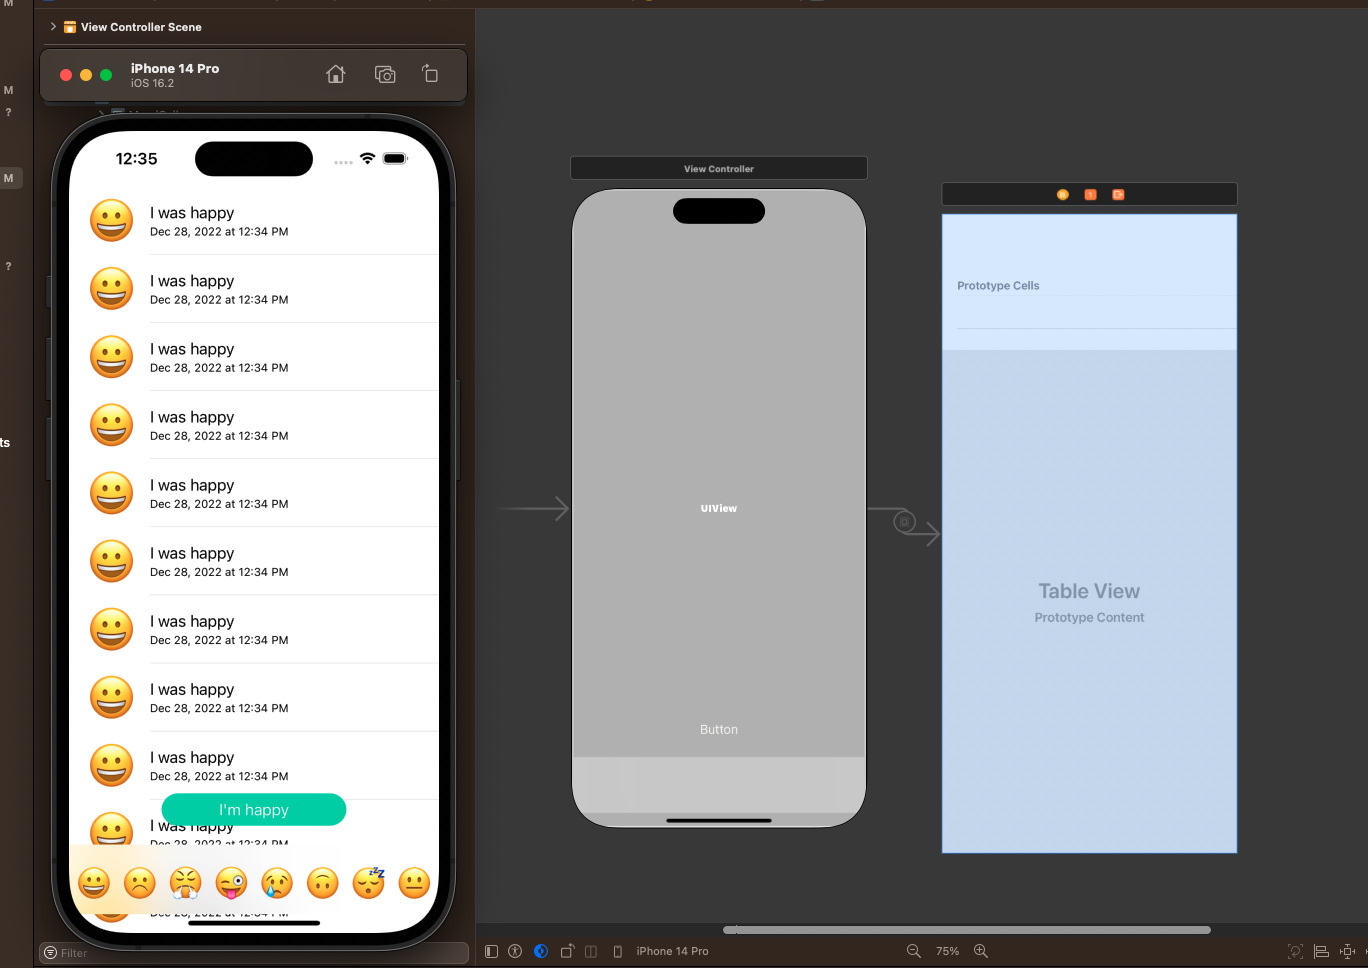
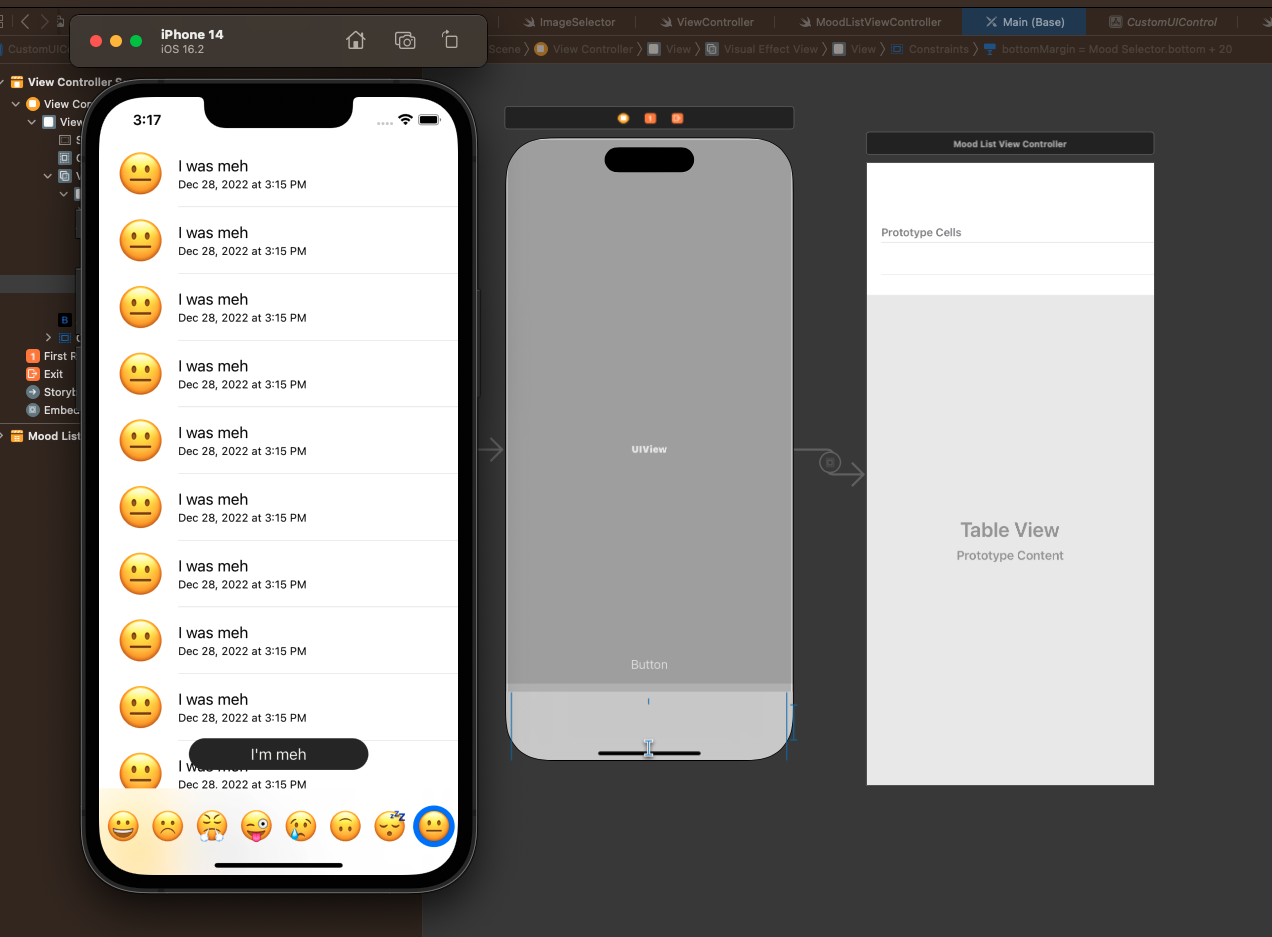
highlight view

diff --git a/CustomUIControl/ImageSelector.swift b/CustomUIControl/ImageSelector.swift
@@ -11,7 +11,19 @@ import UIKit
 class ImageSelector: UIControl {
     
     // currently selected image
-    var selectedIndex = 0
+    var selectedIndex = 0 {
+        didSet {
+            if selectedIndex < 0 {
+                selectedIndex = 0
+            }
+            if selectedIndex >= imageButtons.count {
+                selectedIndex = imageButtons.count - 1
+            }
+            
+            let imageButton = imageButtons[selectedIndex]
+            highlightViewXConstraint = highlightView.centerXAnchor.constraint(equalTo: imageButton.centerXAnchor)
+        }
+    }
     
     // a list of images to select
     var images: [UIImage] = [] {
@@ -58,12 +70,16 @@ class ImageSelector: UIControl {
     
     private func configureViewHierarchy() {
         addSubview(selectorStackView)
+        insertSubview(highlightView, belowSubview: selectorStackView)
         
         NSLayoutConstraint.activate([
             selectorStackView.leadingAnchor.constraint(equalTo: leadingAnchor),
             selectorStackView.trailingAnchor.constraint(equalTo: trailingAnchor),
             selectorStackView.topAnchor.constraint(equalTo: topAnchor),
             selectorStackView.bottomAnchor.constraint(equalTo: bottomAnchor),
+            highlightView.heightAnchor.constraint(equalTo: highlightView.widthAnchor),
+            highlightView.heightAnchor.constraint(equalTo: heightAnchor, multiplier: 0.9),
+            highlightView.centerYAnchor.constraint(equalTo: selectorStackView.centerYAnchor),
         ])
     }
     
@@ -75,5 +91,25 @@ class ImageSelector: UIControl {
     required init?(coder: NSCoder) {
         super.init(coder: coder)
         configureViewHierarchy()
+    }
+    
+    private let highlightView: UIView = {
+       let view = UIView()
+        view.backgroundColor = view.tintColor
+        view.translatesAutoresizingMaskIntoConstraints = false
+        return view
+    }()
+    
+    private var highlightViewXConstraint: NSLayoutConstraint! {
+        didSet {
+            oldValue?.isActive = false
+            highlightViewXConstraint.isActive = true
+        }
+    }
+    
+    override func layoutSubviews() {
+        super.layoutSubviews()
+        
+        highlightView.layer.cornerRadius = highlightView.bounds.height / 2.0
     }
 }
